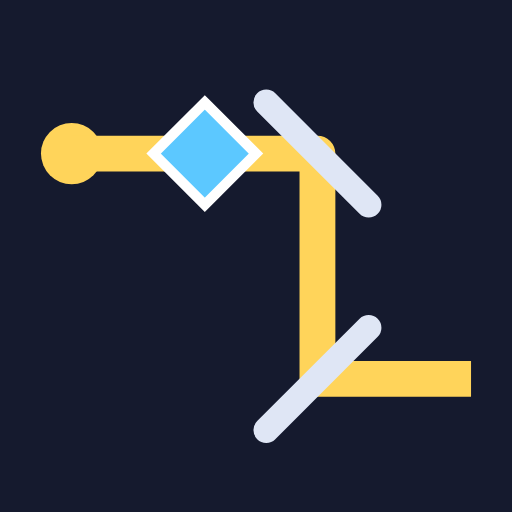
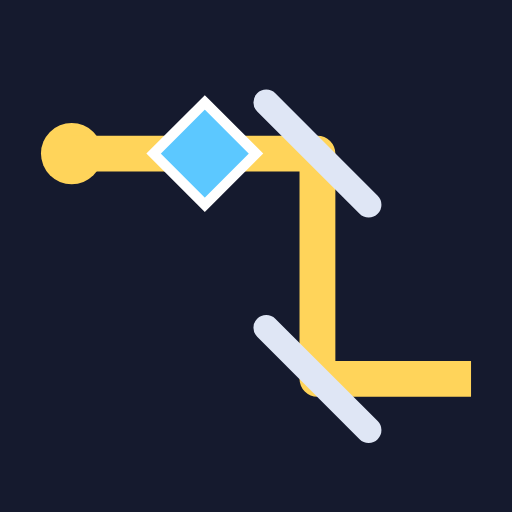
ひかり道：CodeRabbit の指摘を直す（ヒントの鏡を下限に数えない・鏡の向き・maskable アイコン・同点のヒント数・QA の起動と動きの検査）
Claude-Session: https://claude.ai/code/session_01SbNQtZ2Fnd6y7QTXSbXeSS

Changed region(s): [[0.4688, 0.5938, 0.75, 0.875]]

diff --git a/index.html b/index.html
@@ -147,11 +147,11 @@ const starStr = (s) => `<span class="stars" aria-label="星${s}つ">${"★".repe
 const fresh = () => ({ v: 1, days: {}, hdays: {}, cnt: {}, perf: {}, total: 0, runs: {}, tut: false, kofi: {}, ach: {} });
 let MODE = "d";
 let mem = null; // 保存できない環境では、開いているあいだだけここに置く
-// 保存に失敗したあとはメモリと保存の両方を読む。記録（日ごとの結果・部屋帳）は合わせて数は高いほう、途中経過は同じ日・同じ問題なら進んだほう
+// 保存に失敗したあとはメモリと保存の両方を読む。記録（日ごとの結果・部屋帳）は合わせて数は高いほう、途中経過は同じ日・同じ問題なら進んだほう（同じだけ進んでいたらヒントの数は多いほう）
 const doneOf = (r) => !!r && r.res.length >= r.list.length, recOf = (r) => ({ r: r.res.map((x) => ({ m: x.m, h: x.h })) });
 // 終わった今日・上級の回を日ごとの記録に入れる（結果を見る前に別のタブが次の日を保存しても、終えた日を失わない）
 function bank(s, r) { const b = doneOf(r) ? (r.mode === "d" ? s.days : r.mode === "h" ? s.hdays : null) : null; if (!b || b[r.date]) return false; b[r.date] = recOf(r); return true; }
-function load() { let a = null, b = null; try { b = JSON.parse(localStorage.getItem(KEY)); } catch (e) {} try { a = mem !== null ? JSON.parse(mem) : null; } catch (e) {} if (a && a.v !== 1) a = null; if (b && b.v !== 1) b = null; if (!a || !b) return Object.assign(fresh(), a || b || {}); const [n, o] = (a.t || 0) >= (b.t || 0) ? [a, b] : [b, a]; const s = Object.assign(fresh(), n); for (const k in o) { if (k === "runs" || k === "t") continue; const x = o[k], y = n[k]; if (x && y && typeof x === "object" && typeof y === "object") { s[k] = Object.assign({}, x, y); for (const q in x) if (typeof x[q] === "number" && typeof y[q] === "number") s[k][q] = Math.max(x[q], y[q]); } else if (typeof x === "number" && typeof y === "number") s[k] = Math.max(x, y); else if (x === true) s[k] = true; } const ra = a.runs || {}, rb = b.runs || {}, prog = (r) => (r.res ? r.res.length : 0) * 1e6 + (r.cur && r.cur.moves ? r.cur.moves : 0), idOf = (r) => JSON.stringify([r.list || null, r.id || null]); s.runs = Object.assign({}, n.runs); for (const m of new Set([...Object.keys(ra), ...Object.keys(rb)])) { const x = ra[m], y = rb[m]; if (x === undefined || y === undefined) { if (x || y) s.runs[m] = x || y; continue; } if (!x || !y) { const r = x || y; if (!r || bank(s, r) || doneOf(r)) continue; const bd = r.mode === "d" ? s.days : r.mode === "h" ? s.hdays : null; if (bd && !bd[r.date]) s.runs[m] = r; continue; } if (x.date !== y.date) { const [w, l] = x.date > y.date ? [x, y] : [y, x]; bank(s, l); s.runs[m] = w; } else if (idOf(x) === idOf(y)) { const px = prog(x), py = prog(y); s.runs[m] = px > py ? x : py > px ? y : n.runs[m]; } } return s; }
+function load() { let a = null, b = null; try { b = JSON.parse(localStorage.getItem(KEY)); } catch (e) {} try { a = mem !== null ? JSON.parse(mem) : null; } catch (e) {} if (a && a.v !== 1) a = null; if (b && b.v !== 1) b = null; if (!a || !b) return Object.assign(fresh(), a || b || {}); const [n, o] = (a.t || 0) >= (b.t || 0) ? [a, b] : [b, a]; const s = Object.assign(fresh(), n); for (const k in o) { if (k === "runs" || k === "t") continue; const x = o[k], y = n[k]; if (x && y && typeof x === "object" && typeof y === "object") { s[k] = Object.assign({}, x, y); for (const q in x) if (typeof x[q] === "number" && typeof y[q] === "number") s[k][q] = Math.max(x[q], y[q]); } else if (typeof x === "number" && typeof y === "number") s[k] = Math.max(x, y); else if (x === true) s[k] = true; } const ra = a.runs || {}, rb = b.runs || {}, prog = (r) => (r.res ? r.res.length : 0) * 1e6 + (r.cur && r.cur.moves ? r.cur.moves : 0), idOf = (r) => JSON.stringify([r.list || null, r.id || null]); s.runs = Object.assign({}, n.runs); for (const m of new Set([...Object.keys(ra), ...Object.keys(rb)])) { const x = ra[m], y = rb[m]; if (x === undefined || y === undefined) { if (x || y) s.runs[m] = x || y; continue; } if (!x || !y) { const r = x || y; if (!r || bank(s, r) || doneOf(r)) continue; const bd = r.mode === "d" ? s.days : r.mode === "h" ? s.hdays : null; if (bd && !bd[r.date]) s.runs[m] = r; continue; } if (x.date !== y.date) { const [w, l] = x.date > y.date ? [x, y] : [y, x]; bank(s, l); s.runs[m] = w; } else if (idOf(x) === idOf(y)) { const px = prog(x), py = prog(y); s.runs[m] = px > py ? x : py > px ? y : n.runs[m]; if (px === py && x.cur && y.cur && x.cur.i === y.cur.i) s.runs[m] = Object.assign({}, s.runs[m], { cur: Object.assign({}, s.runs[m].cur, { hints: Math.max(x.cur.hints || 0, y.cur.hints || 0) }) }); } } return s; }
 // 保存の前に読み直す（別のタブで進めた記録を消さない）
 function save(fn) { const s = load(); fn(s); s.t = Math.max(Date.now(), (s.t || 0) + 1); const j = JSON.stringify(s); try { localStorage.setItem(KEY, j); mem = null; } catch (e) { mem = j; } return s; }
 const prevDay = (k) => new Date(Date.parse(k) - 864e5).toISOString().slice(0, 10);
@@ -190,7 +190,7 @@ function bindFooter() { const h = $("f-how"); if (h) h.onclick = (e) => { e.prev
 function openHow() { $("fb2").href = FEEDBACK; const d = $("howto"); if (d.showModal) d.showModal(); else d.setAttribute("open", ""); }
 $("howto-ok").onclick = () => { const d = $("howto"); d.close ? d.close() : d.removeAttribute("open"); save((s) => { s.tut = true; }); };
 // ホームの小さな部屋（飾り）：光が鏡で2回曲がって宝石を通り、出口へ
-const DEMO = `<svg viewBox="0 0 220 110" width="220" height="110" aria-hidden="true" style="display:block;margin:0 auto"><g fill="#ffffff08" stroke="#ffffff1c">${[0, 1, 2, 3, 4].map((c) => [0, 1, 2].map((r) => `<rect x="${20 + 36 * c}" y="${2 + 36 * r}" width="36" height="36"/>`).join("")).join("")}</g><circle cx="10" cy="20" r="6" fill="#ffd45a"/><polyline points="10,20 110,20 110,92 214,92" fill="none" stroke="#ffd45a" stroke-width="4" stroke-linejoin="round" style="filter:drop-shadow(0 0 4px #ffd45a)"/><g stroke="#dfe6f5" stroke-width="4" stroke-linecap="round"><line x1="97" y1="7" x2="123" y2="33"/><line x1="97" y1="105" x2="123" y2="79"/></g><polygon points="164,80 176,92 164,104 152,92" fill="#5cc8ff" stroke="#fff" stroke-width="1.5"/><circle cx="214" cy="92" r="6" fill="none" stroke="#5fd39a" stroke-width="3"/><rect x="164" y="2" width="36" height="36" rx="9" fill="#3a4160"/></svg>`;
+const DEMO = `<svg viewBox="0 0 220 110" width="220" height="110" aria-hidden="true" style="display:block;margin:0 auto"><g fill="#ffffff08" stroke="#ffffff1c">${[0, 1, 2, 3, 4].map((c) => [0, 1, 2].map((r) => `<rect x="${20 + 36 * c}" y="${2 + 36 * r}" width="36" height="36"/>`).join("")).join("")}</g><circle cx="10" cy="20" r="6" fill="#ffd45a"/><polyline points="10,20 110,20 110,92 214,92" fill="none" stroke="#ffd45a" stroke-width="4" stroke-linejoin="round" style="filter:drop-shadow(0 0 4px #ffd45a)"/><g stroke="#dfe6f5" stroke-width="4" stroke-linecap="round"><line x1="97" y1="7" x2="123" y2="33"/><line x1="97" y1="79" x2="123" y2="105"/></g><polygon points="164,80 176,92 164,104 152,92" fill="#5cc8ff" stroke="#fff" stroke-width="1.5"/><circle cx="214" cy="92" r="6" fill="none" stroke="#5fd39a" stroke-width="3"/><rect x="164" y="2" width="36" height="36" rx="9" fill="#3a4160"/></svg>`;
 
 function home() {
   const s = load(), k = todayKey(), done = s.days[k], hdone = s.hdays[k];

diff --git a/gen.js b/gen.js
@@ -70,8 +70,8 @@
     const h0 = R.D[R.idx(p.lr, 0, 0, 0)];
     if (h0 === 255) return null;
     const lo = (h0 + 1) >> 1;
-    const dec = new Map(); // ます → 0（まっすぐ）・1・2
-    if (fixed) for (let r = 0; r < p.H; r++) for (let c = 0; c < p.W; c++) if (fixed[r] && fixed[r][c]) dec.set(r * p.W + c, fixed[r][c]);
+    const dec = new Map(), fx = new Set(); // ます → 0（まっすぐ）・1・2。fx：ヒントで動かせない鏡（数に入らないので refl にも数えない）
+    if (fixed) for (let r = 0; r < p.H; r++) for (let c = 0; c < p.W; c++) if (fixed[r] && fixed[r][c]) { dec.set(r * p.W + c, fixed[r][c]); fx.add(r * p.W + c); }
     let found = null;
     function dfs(r, c, d, m, used, refl, budget, seen) {
       for (;;) {
@@ -97,7 +97,7 @@
           return false;
         }
         seen.add(key);
-        if (v === 0 && dec.get(cell)) refl++;
+        if (v === 0 && dec.get(cell) && !fx.has(cell)) refl++;
         d = turn(d, v === 0 ? dec.get(cell) : mirrorOf(v, 0));
         r += DY[d]; c += DX[d];
       }
@@ -148,6 +148,7 @@
       if (gems.length < L.gem) continue;
       // 岩：道の外に
       const off = []; for (let rr = 0; rr < L.H; rr++) for (let cc = 0; cc < L.W; cc++) if (!used.has(rr * L.W + cc)) off.push([rr, cc]);
+      if (off.length < L.rock) continue;
       for (let k = 0; k < L.rock && off.length; k++) { const x = off.splice(Math.floor(R() * off.length), 1)[0]; cell[x[0]][x[1]] = 1; }
       gems.sort((a, b) => a[0] - b[0] || a[1] - b[1]);
       const p = { W: L.W, H: L.H, lr, cell, gems, goal, name: L.name };

diff --git a/sw.js b/sw.js
@@ -2,7 +2,7 @@
 // 画面は先にネットを見て、つながらないときだけ保存したものを使う（直した版がすぐ届く）。
 // 記録（localStorage）には触らない。外へ何も送らない（よそのサイト＝文字の取り寄せは扱わない）。
 const CACHE = "hikari-michi-v1";
-const SHELL = ["./", "./index.html", "./gen.js", "./manifest.webmanifest", "./icon-192.png", "./icon-512.png"];
+const SHELL = ["./", "./index.html", "./gen.js", "./manifest.webmanifest", "./icon-192.png", "./icon-512.png", "./icon-512-maskable.png"];
 
 self.addEventListener("install", (e) => {
   e.waitUntil(caches.open(CACHE).then((c) => c.addAll(SHELL)).then(() => self.skipWaiting()));
